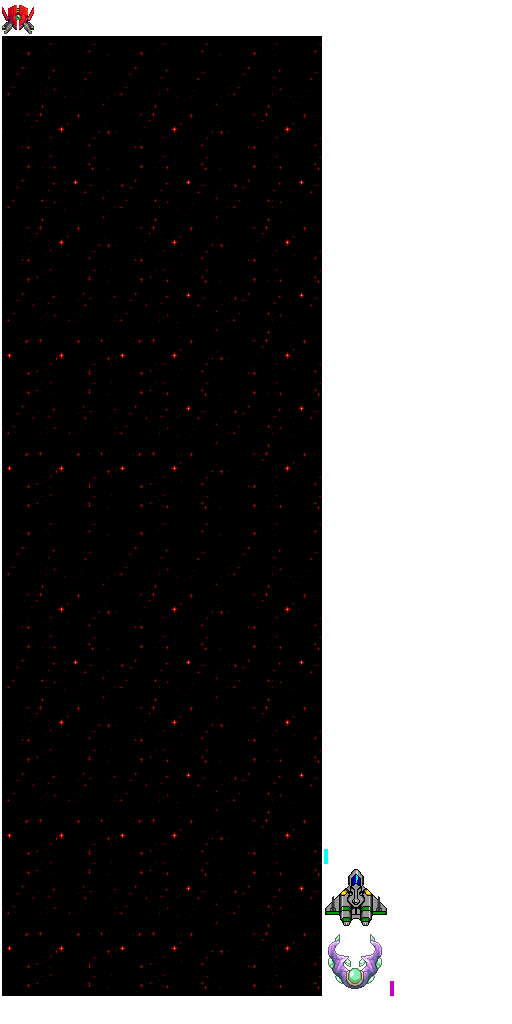
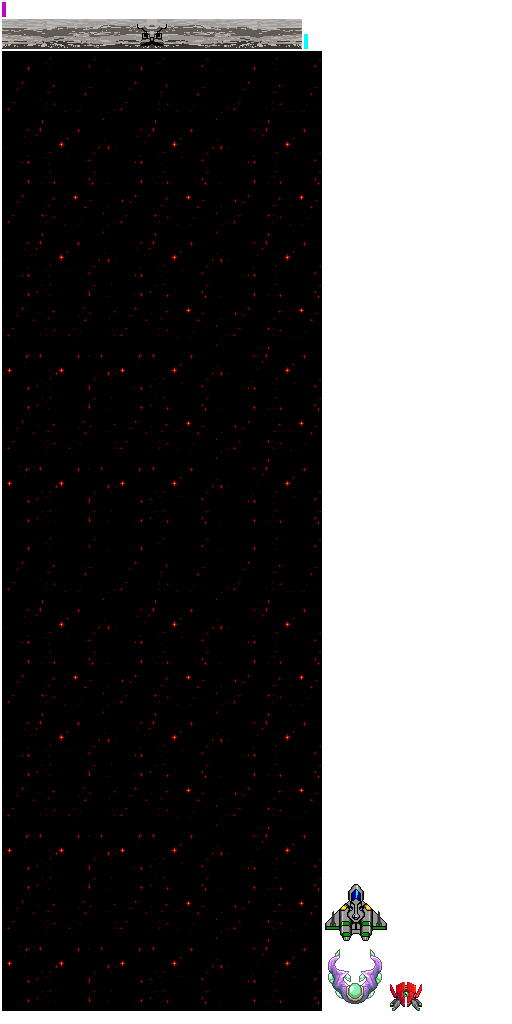
Añadido puente.

diff --git a/core/src/com/infiniteloop/ride/Bridge.java b/core/src/com/infiniteloop/ride/Bridge.java
@@ -11,17 +11,17 @@ import com.badlogic.gdx.utils.Align;
 /**
  * Created by jackthebones on 18/06/15.
  */
-public class Kamikaze extends Actor{
-    public static final int KamikazeWidth = 32;
-    public static final int KamikazeHeight = 32;
+public class Bridge extends Actor{
+    public static final int BridgeWidth = 32;
+    public static final int BridgeHeight = 32;
 
     //Velocidad y aceleracion posiciones X y Y
     private Vector2 Velocity;
 
     private TextureRegion textureRegion;
 
-    public static int KamikazeLifePoints = MathUtils.random(1, 2);
-    public int KAMIKAZEAMOUNT;
+    public static int BridgeLifePoints = MathUtils.random(1, 15);
+    public int BRIDGEAMOUNT;
 
 
     //Estado del personaje
@@ -30,15 +30,15 @@ public class Kamikaze extends Actor{
     //Posibles estados de personaje durante el juego
     public enum State {alive, dead}
 
-    private Rectangle KamikazePerimeter;
+    private Rectangle BridgePerimeter;
 
-    public Kamikaze(int KamikazeAmount) {
+    public Bridge(int BridgeAmount) {
 
-        KAMIKAZEAMOUNT = KamikazeAmount;
+        BRIDGEAMOUNT = BridgeAmount;
 
-        textureRegion = new TextureRegion(Assets.kamikaze);
-        setWidth(KamikazeWidth);
-        setHeight(KamikazeHeight);
+        textureRegion = new TextureRegion(Assets.bridge);
+        setWidth(BridgeWidth);
+        setHeight(BridgeHeight);
 
 
         //Inicializa el personaje como "alive"
@@ -46,9 +46,9 @@ public class Kamikaze extends Actor{
 
         //Variables de movimiento del personaje
         //Velocidad del personaje
-        Velocity = new Vector2(0, -45f);
+        Velocity = new Vector2(0, -10f);
         //Peso o gravedad del personaje
-        KamikazePerimeter = new Rectangle(0, 0, KamikazeWidth, KamikazeHeight);
+        BridgePerimeter = new Rectangle(0, 0, BridgeWidth, BridgeHeight);
 
         //Centro de rotacion del pj
         setOrigin(Align.center);
@@ -79,50 +79,49 @@ public class Kamikaze extends Actor{
     }
 
     public void DeadRise(){
-        if (KAMIKAZEAMOUNT != 0){
-            KamikazeLifePoints = MathUtils.random(1,2);
-            setPosition(MathUtils.random(32, RideGame.WIDHT),
-                    RideGame.HEIGHT + MathUtils.random(700,1700), Align.center);
+        if (BRIDGEAMOUNT != 0){
+            BridgeLifePoints = MathUtils.random(1,2);
+            setPosition(RideGame.WIDHT / 2, RideGame.HEIGHT + MathUtils.random(1700,5000), Align.center);
             state = State.alive;
         }
         else{
             remove();
             clear();
-            setKamikazePerimeter(new Rectangle(0, 0, -30, -30));
+            setBridgePerimeter(new Rectangle(0, 0, -30, -30));
         }
     }
 
     public void HitTaken() {
 
-        KamikazeLifePoints--;
-        if(KAMIKAZEAMOUNT != 0){
-            if(KamikazeLifePoints == 0){
+        BridgeLifePoints--;
+        if(BRIDGEAMOUNT != 0){
+            if(BridgeLifePoints == 0){
                 state = State.dead;
-                KAMIKAZEAMOUNT--;
+                BRIDGEAMOUNT--;
             }
         }
     }
 
     private void UpdatePerimeter() {
 
-        KamikazePerimeter.x = getX();
-        KamikazePerimeter.y = getY();
+        BridgePerimeter.x = getX();
+        BridgePerimeter.y = getY();
 
     }
 
-    public Rectangle getKamikazePerimeter() {
-        return KamikazePerimeter;
+    public Rectangle getBridgePerimeter() {
+        return BridgePerimeter;
     }
 
-    public void setKamikazePerimeter(Rectangle kamikazePerimeter) {
-        KamikazePerimeter = kamikazePerimeter;
+    public void setBridgePerimeter(Rectangle bridgePerimeter) {
+        BridgePerimeter = bridgePerimeter;
     }
 
     private void ActAlive(float delta) {
         UpdatePosition(delta);
 
         if (IsBelowGround()){
-            ResetKamikaze();
+            ResetBridge();
         }
     }
 
@@ -132,9 +131,8 @@ public class Kamikaze extends Actor{
     }
 
 
-    private void ResetKamikaze(){
-        setPosition(MathUtils.random(32, RideGame.WIDHT),
-                RideGame.HEIGHT + MathUtils.random(35,170), Align.center);
+    private void ResetBridge(){
+        setPosition(RideGame.WIDHT / 2, RideGame.HEIGHT + MathUtils.random(1700,5000), Align.center);
     }
 
 
@@ -147,4 +145,3 @@ public class Kamikaze extends Actor{
 
     }
 }
-

diff --git a/core/src/com/infiniteloop/ride/GameplayState.java b/core/src/com/infiniteloop/ride/GameplayState.java
@@ -30,6 +30,8 @@ public class GameplayState extends ScreenAdapter {
     private Shot shot;
     private Alien alien;
     private Kamikaze kamikaze;
+    private Bridge bridge;
+
     public static Label label;
 
     private BitmapFont font;
@@ -56,7 +58,11 @@ public class GameplayState extends ScreenAdapter {
         alien.setPosition(MathUtils.random(32, RideGame.WIDHT - 32), RideGame.HEIGHT, Align.center);
 
         kamikaze = new Kamikaze(MathUtils.random(3,10));
-        kamikaze.setPosition(MathUtils.random(32, RideGame.WIDHT - 32), RideGame.HEIGHT, Align.center);
+        kamikaze.setPosition(MathUtils.random(32, RideGame.WIDHT),
+                RideGame.HEIGHT + MathUtils.random(700,1700), Align.center);
+
+        bridge = new Bridge(MathUtils.random(1,5));
+        bridge.setPosition(RideGame.WIDHT / 2, RideGame.HEIGHT + MathUtils.random(1700,5000), Align.center);
 
         spacebackground = new SpaceBackground();
         spacebackground.setPosition(0,0);
@@ -66,6 +72,7 @@ public class GameplayState extends ScreenAdapter {
         GameplayStage.addActor(alien);
         GameplayStage.addActor(kamikaze);
         GameplayStage.addActor(label);
+        GameplayStage.addActor(bridge);
 
         InitInputProcessor();
     }
@@ -141,7 +148,7 @@ public class GameplayState extends ScreenAdapter {
         if(kamikaze != null) {
             if(ship != null){
                 if(kamikaze.getKamikazePerimeter().overlaps(ship.getShipPerimeter())){
-                    ship.HitTaken((int)(ship.CurrentLife * 0.35));
+                    ship.HitTaken((int)(ship.CurrentLife * 0.50));
                     kamikaze.state = Kamikaze.State.dead;
                     kamikaze.KAMIKAZEAMOUNT --;
                 }

diff --git a/core/src/com/infiniteloop/ride/Assets.java b/core/src/com/infiniteloop/ride/Assets.java
@@ -20,6 +20,7 @@ public class Assets {
     public static TextureRegion alienshot;
     public static TextureRegion alien;
     public static TextureRegion kamikaze;
+    public static TextureRegion bridge;
 
     public static void load(){
         atlas = new TextureAtlas("pack.atlas");
@@ -31,6 +32,7 @@ public class Assets {
         alienshot = atlas.findRegion("alienshot");
         alien = atlas.findRegion("bigalien");
         kamikaze = atlas.findRegion("tinyalien");
+        bridge = atlas.findRegion("bridge");
 
     }
 

diff --git a/core/src/com/infiniteloop/ride/RideGame.java b/core/src/com/infiniteloop/ride/RideGame.java
@@ -13,8 +13,6 @@ public class RideGame extends Game {
 	public static int HEIGHT = 480;
 
 	public static int TOPSCREENLEVEL = HEIGHT;
-	public static int GROUNDLEVEL = 24;
-
 
 	@Override
 	public void create () {
